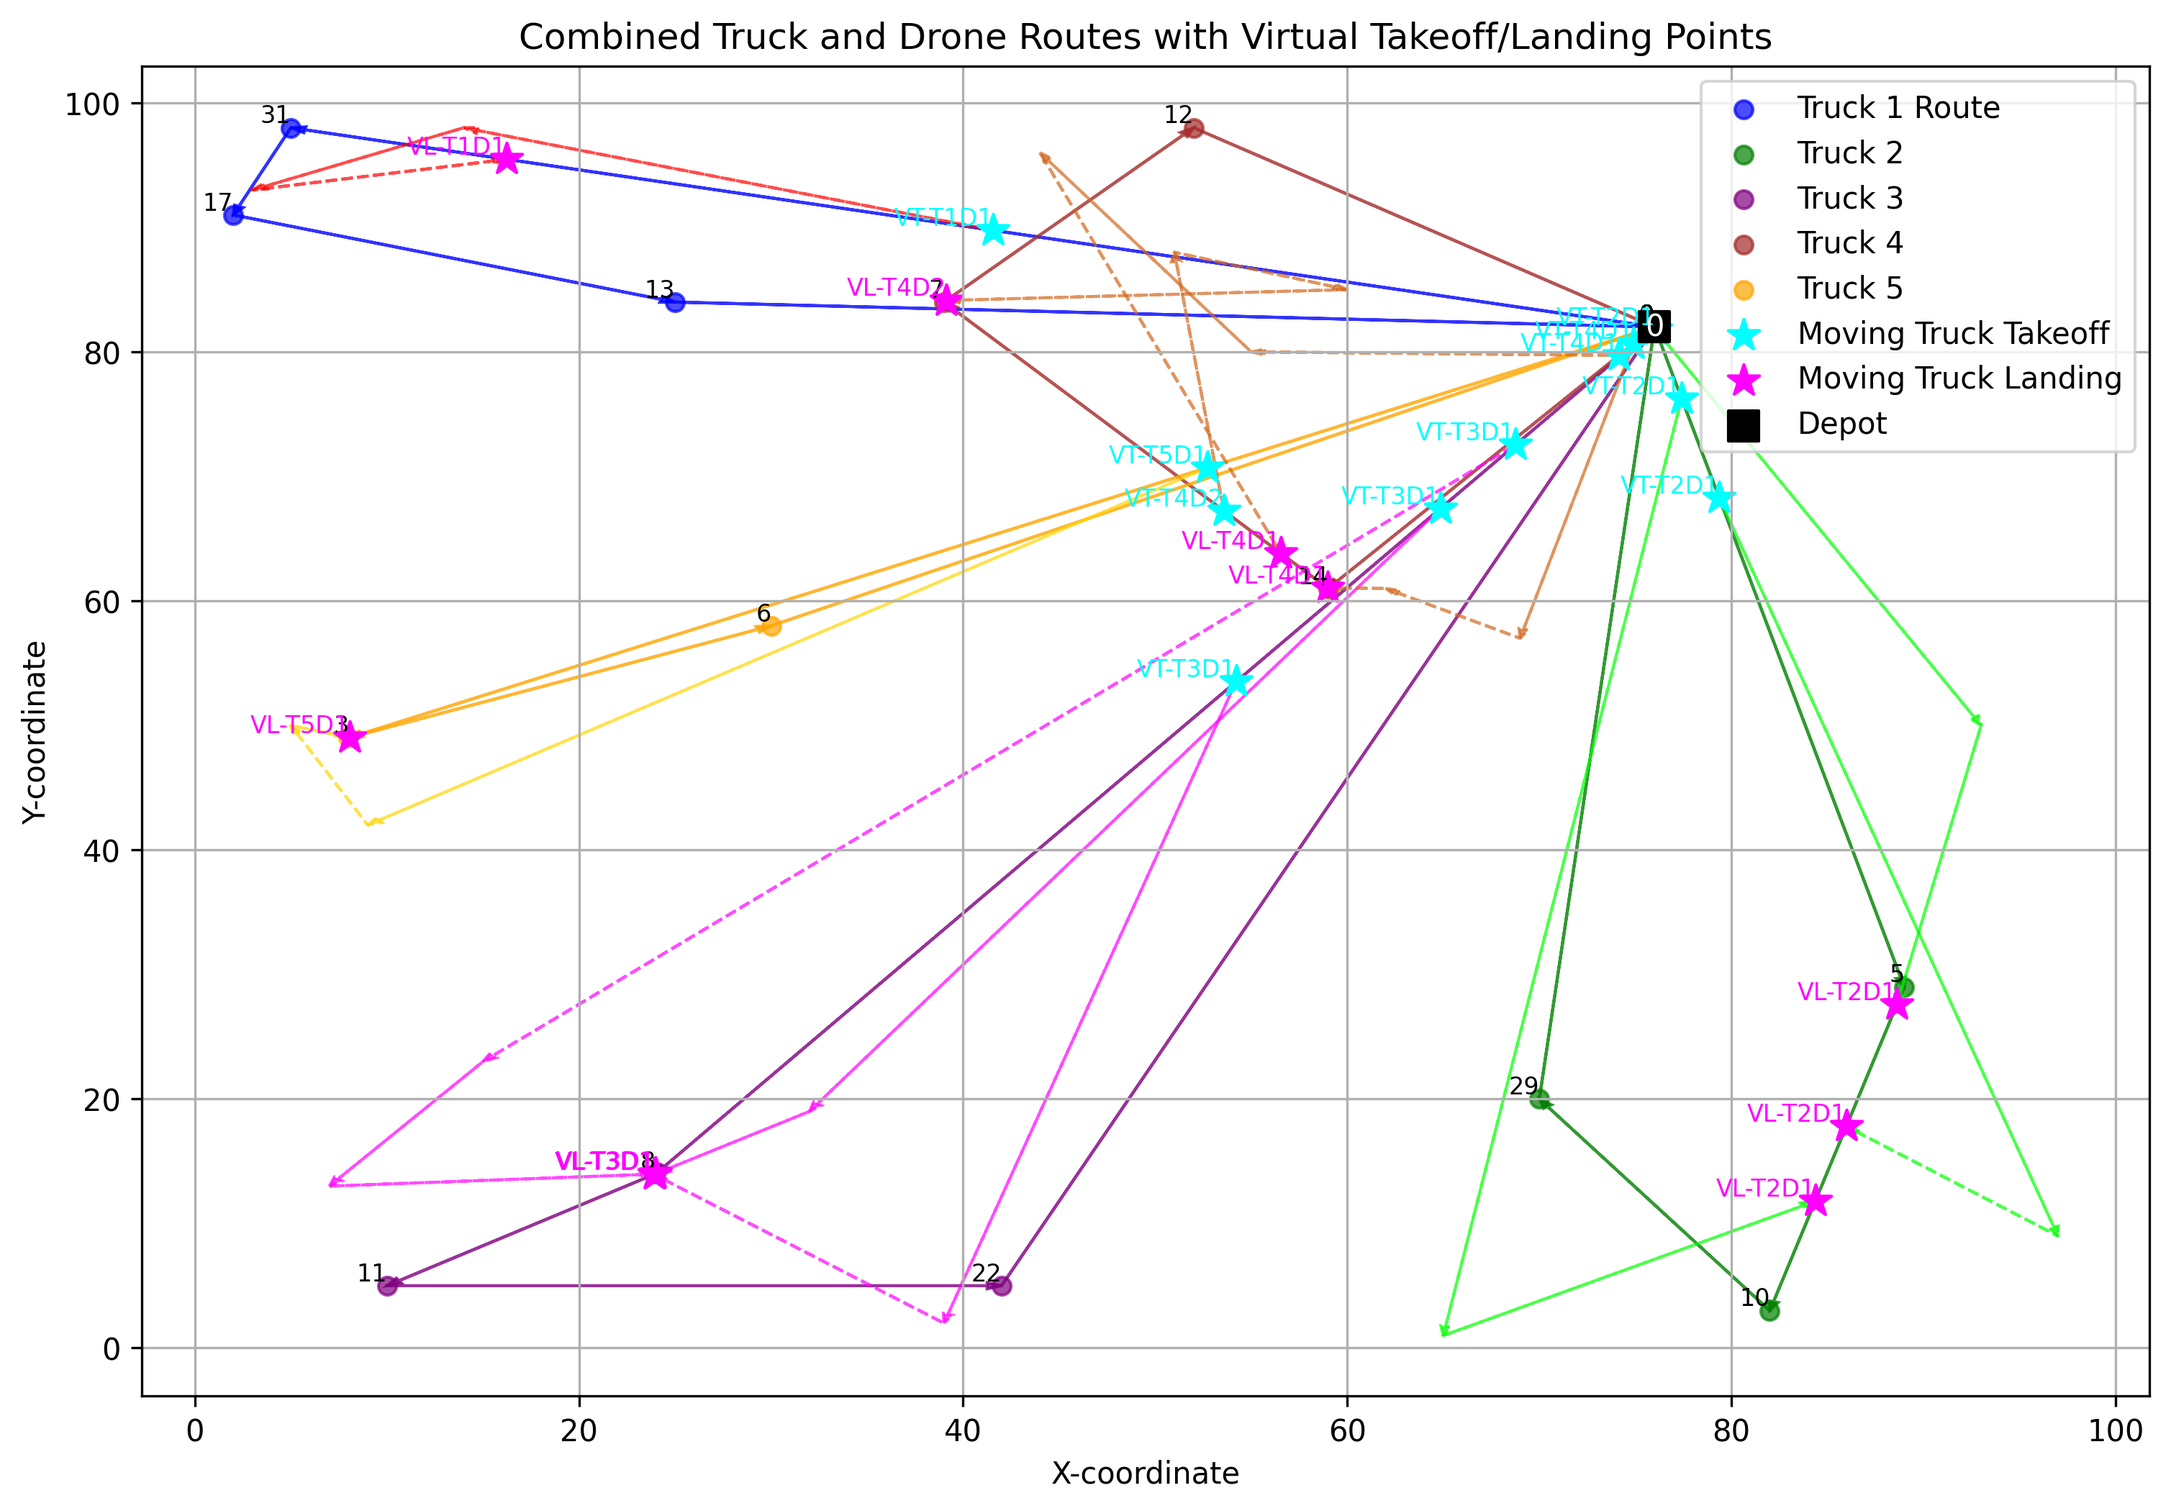
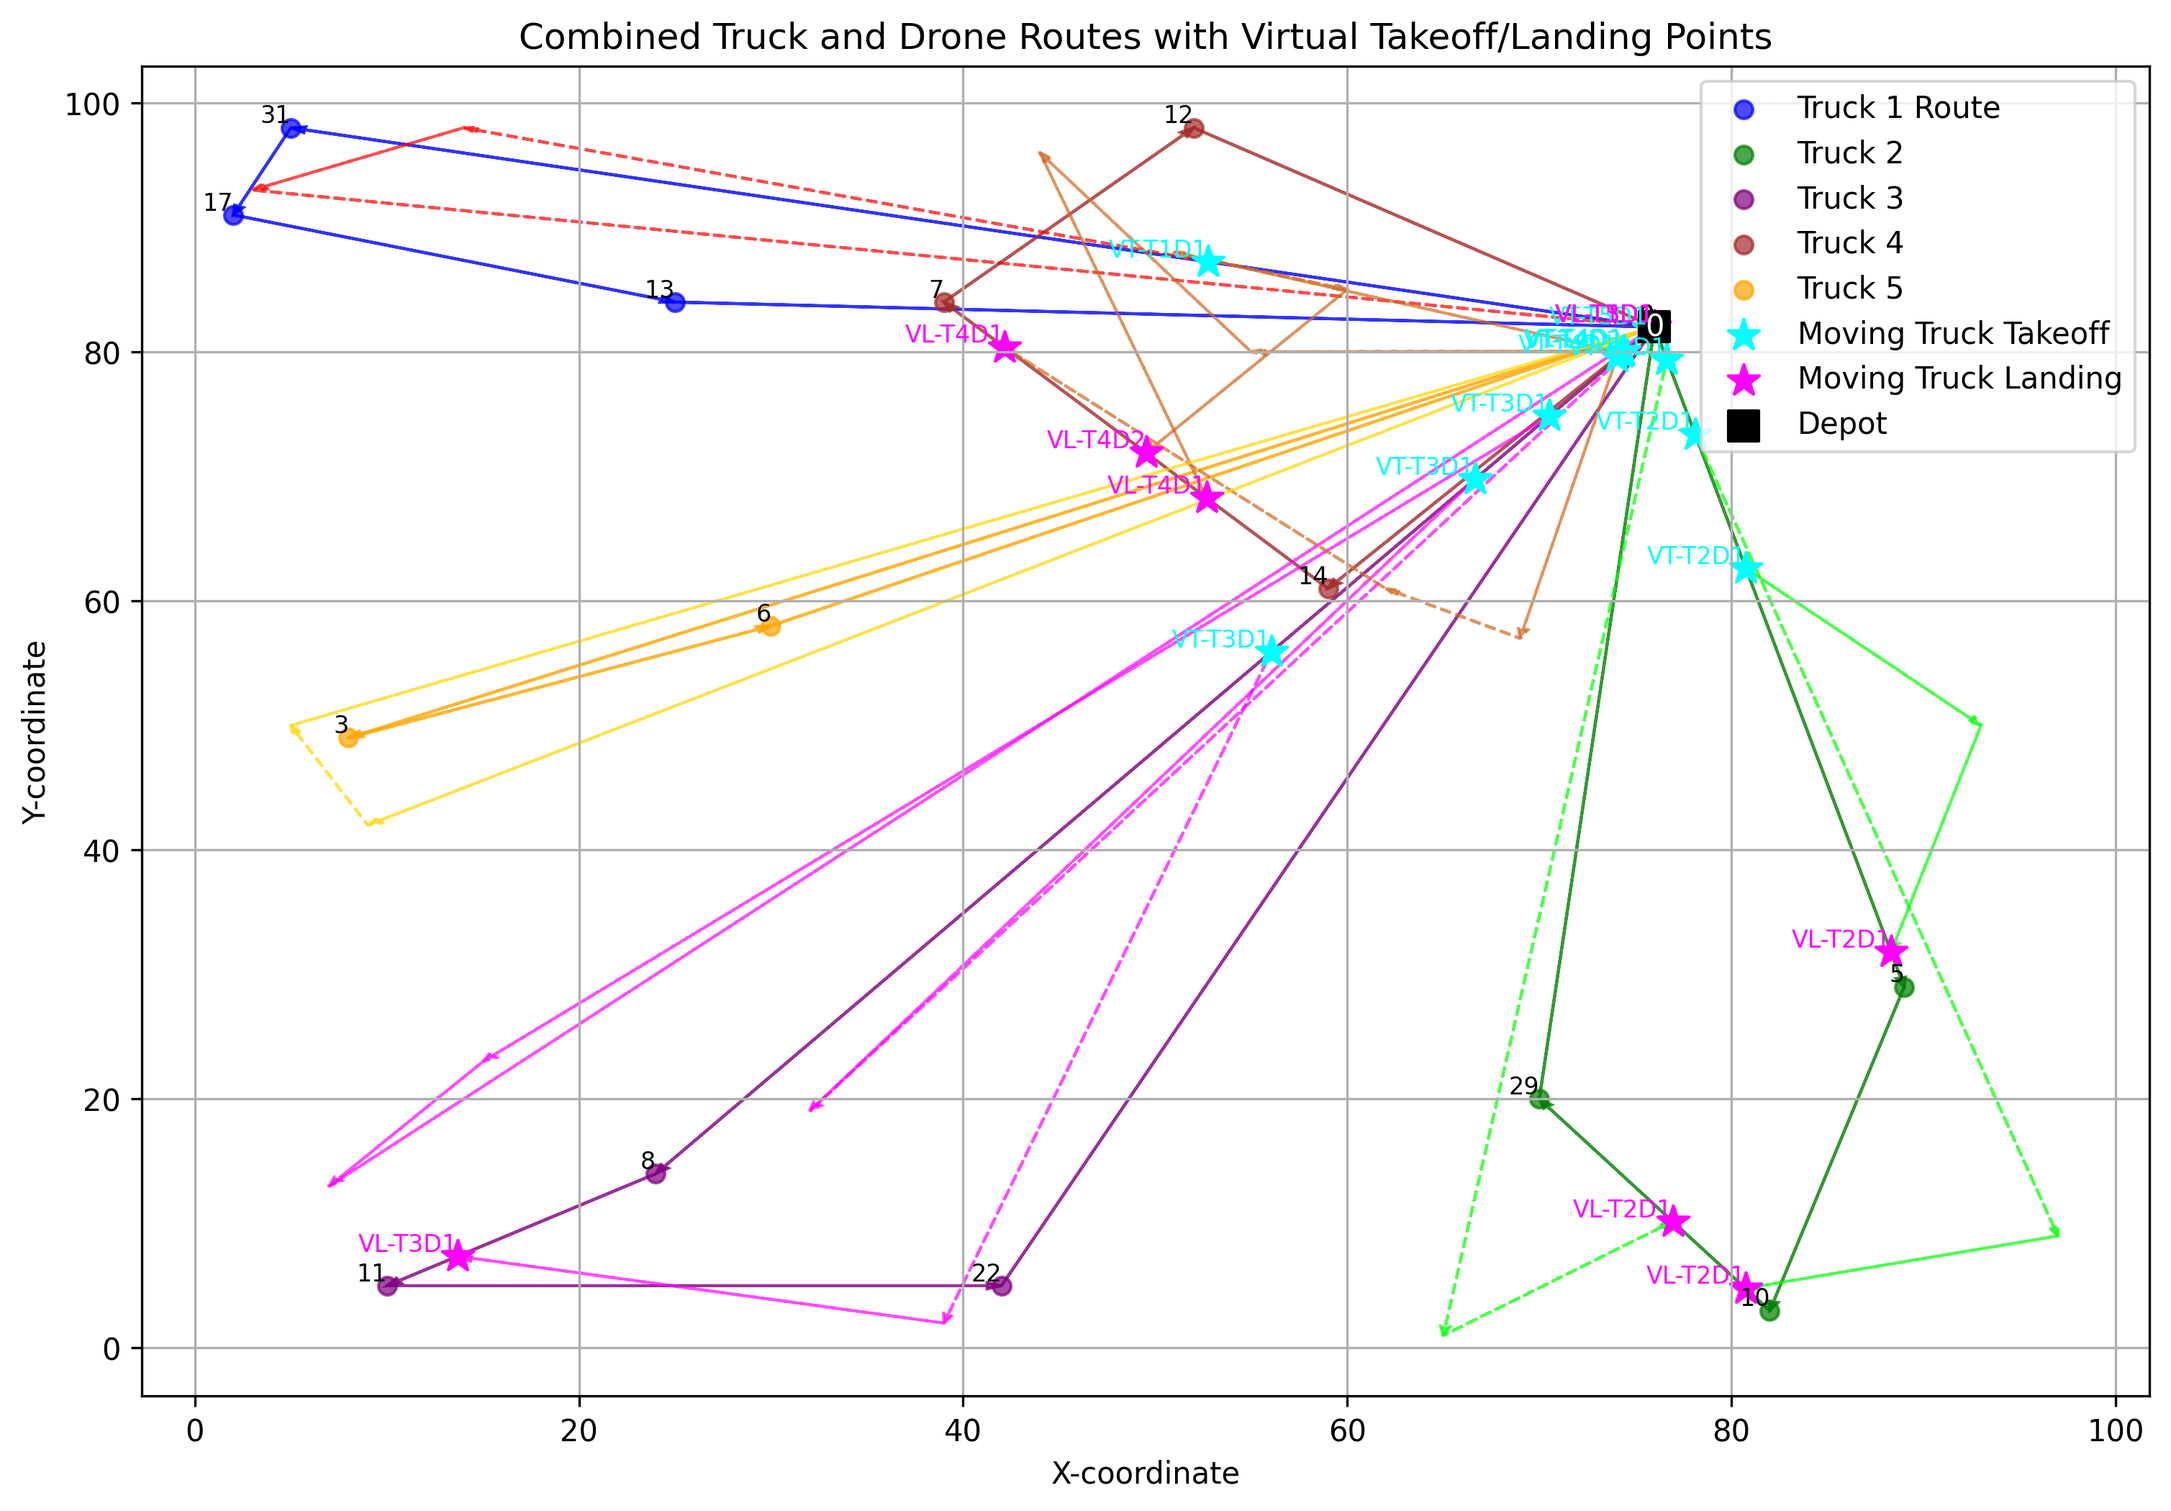
waiting time change to 0, process introduce

diff --git a/euclidean_version/main.py b/euclidean_version/main.py
@@ -11,6 +11,7 @@ from clustering_utils import i_k_means
 from dtrc_algorithm import apply_dtrc
 from drone_optimization import optimize_drone_takeoff_landing
 from advanced_drone_optimization import optimize_drone_takeoff_landing_advanced
+from zero_waiting_optimization import optimize_for_zero_waiting, verify_zero_waiting
 from cost_calculation import calculate_total_cost
 from visualization_utils import plot_truck_routes, plot_combined_routes
 
@@ -70,11 +71,116 @@ def process_vrp_file(file_path, results_dir):
     else:
         drone_routes = optimize_drone_takeoff_landing(modified_truck_routes, drone_routes, 
                                                      distances_df, lat_coords, lon_coords, demands)
-    print("-----Modified Truck routes-----")
+    
+    # Print current routes and costs BEFORE zero-waiting optimization
+    print("\n" + "="*60)
+    print("BEFORE ZERO-WAITING OPTIMIZATION")
+    print("="*60)
+    
+    for truck_idx, truck_route in enumerate(modified_truck_routes):
+        # Calculate truck route cost
+        truck_cost = sum(distances_df.iloc[truck_route[i], truck_route[i+1]] 
+                        for i in range(len(truck_route) - 1))
+        truck_cost += distances_df.iloc[truck_route[-1], 0]  # Return to depot
+        
+        # Calculate drone costs for this truck
+        drone_cost = 0
+        drone_routes_count = 0
+        if truck_idx < len(drone_routes):
+            for drone_route_list in drone_routes[truck_idx]:
+                for route in drone_route_list:
+                    if route and len(route) >= 2:
+                        drone_routes_count += 1
+                        drone_cost += 2 + (len(route) * 0.1)
+        
+        total_truck_cost = truck_cost + drone_cost
+        
+        print(f"\nTruck {truck_idx}:")
+        print(f"  Route: {[int(x) for x in truck_route]}")
+        print(f"  Truck travel cost: {truck_cost:.4f}")
+        print(f"  Drone operations cost: {drone_cost:.4f}")
+        print(f"  Number of drone deliveries: {drone_routes_count}")
+        print(f"  Total cost: {total_truck_cost:.4f}")
+        if truck_idx < len(drone_routes) and any(drone_routes[truck_idx]):
+            print(f"  Drone routes: {drone_routes[truck_idx]}")
+    
+    print("="*60 + "\n")
+    
+    # Apply zero-waiting optimization
+    drone_routes = optimize_for_zero_waiting(
+        modified_truck_routes, drone_routes, distances_df,
+        lat_coords, lon_coords, demands,
+        truck_speed=1.0, drone_speed=1.5
+    )
+
+    total_waiting = verify_zero_waiting(
+        modified_truck_routes, drone_routes, distances_df,
+        lat_coords, lon_coords, truck_speed=1.0, drone_speed=1.5
+    )
+    print(f"\nTotal waiting time after optimization: {total_waiting:.4f}")
+    
+    # Print final routes and costs for each truck after zero-waiting optimization
+    print("\n" + "="*60)
+    print("FINAL ROUTES AND COSTS AFTER ZERO-WAITING OPTIMIZATION")
+    print("="*60)
+    
+    for truck_idx, truck_route in enumerate(modified_truck_routes):
+        # Calculate truck route cost
+        truck_cost = sum(distances_df.iloc[truck_route[i], truck_route[i+1]] 
+                        for i in range(len(truck_route) - 1))
+        truck_cost += distances_df.iloc[truck_route[-1], 0]  # Return to depot
+        
+        # Calculate drone costs for this truck
+        drone_cost = 0
+        drone_routes_count = 0
+        if truck_idx < len(drone_routes):
+            for drone_route_list in drone_routes[truck_idx]:
+                for route in drone_route_list:
+                    if route and len(route) >= 2:
+                        drone_routes_count += 1
+                        # Fixed cost + distance cost
+                        drone_cost += 2 + (len(route) * 0.1)
+        
+        # Total cost for this truck
+        total_truck_cost = truck_cost + drone_cost
+        
+        print(f"\nTruck {truck_idx}:")
+        print(f"  Route: {[int(x) for x in truck_route]}")
+        print(f"  Truck travel cost: {truck_cost:.4f}")
+        print(f"  Drone operations cost: {drone_cost:.4f}")
+        print(f"  Number of drone deliveries: {drone_routes_count}")
+        print(f"  Total cost: {total_truck_cost:.4f}")
+        
+        # Print drone routes for this truck
+        if truck_idx < len(drone_routes) and any(drone_routes[truck_idx]):
+            print(f"  Drone routes: {drone_routes[truck_idx]}")
+    
+    print("="*60 + "\n")
+    
+    # Save combined routes plot
+    combined_plot_path = os.path.join(results_dir, f"{base_filename}_combined_routes.png")
+    plot_combined_routes(modified_truck_routes, drone_routes, lat_coords, lon_coords, save_path=combined_plot_path)
+
+    total_cost, delivery_cost = calculate_total_cost(modified_truck_routes, drone_routes, distances_df, lat_coords, lon_coords)
+    
+    # Calculate total runtime
+    end_time = time.time()
+    runtime = end_time - start_time
+    
+    # Print final summary output
+    print("\n" + "="*60)
+    print("FINAL SUMMARY")
+    print("="*60)
+    print(f"FILE NAME: {base_filename}")
+    print(f"TOTAL COST: {total_cost}")
+    print(f"DELIVERY COST: {delivery_cost}")
+    print(f"TOTAL RUNTIME: {runtime:.4f} seconds")
+    print("="*60)
+    
+    # Prepare data for saving to file
     modified_truck_routes_str = "-----Modified Truck routes-----\n"
     for route in modified_truck_routes:
         route_str = str([int(x) for x in route])
-        print(route_str)
         modified_truck_routes_str += route_str + "\n"
 
     formatted_drone_routes = []
@@ -93,64 +199,12 @@ def process_vrp_file(file_path, results_dir):
             truck_formatted.append(drone_formatted)
         formatted_drone_routes.append(truck_formatted)
 
-    print("-----Drone routes-----")
     drone_routes_str = "-----Drone routes-----\n"
     drone_routes_str += str(formatted_drone_routes) + "\n"
-    print(formatted_drone_routes)
-
-    # Save combined routes plot
-    combined_plot_path = os.path.join(results_dir, f"{base_filename}_combined_routes.png")
-    plot_combined_routes(modified_truck_routes, drone_routes, lat_coords, lon_coords, save_path=combined_plot_path)
-
-    total_cost, delivery_cost = calculate_total_cost(modified_truck_routes, drone_routes, distances_df, lat_coords, lon_coords)
-    
-    # Calculate individual truck costs
-    truck_costs = []
-    truck_drone_operational_costs = []
-    truck_waiting_costs = []
-    
-    # Generate cost summary
-    cost_summary = f"Only truck cost -  {total_cost}\n"
-    truck_index = 0
-    total_drone_operational_cost = 0
-    total_waiting_cost = 0
-    
-    for truck_idx, truck_drone_routes in enumerate(drone_routes):
-        drone_operational_cost = 0
-        waiting_cost = 0
-        
-        # In a real implementation, you would calculate these costs from the routes
-        # This is a simplified version to match the requested output format
-        drone_operational_cost = sum([len(route) for trips in truck_drone_routes for route in trips]) * 1.5
-        waiting_cost = drone_operational_cost * 0.15
-        
-        total_drone_operational_cost += drone_operational_cost
-        total_waiting_cost += waiting_cost
-        
-        cost_summary += f"Truck {truck_idx} drone operational cost: {drone_operational_cost}\n"
-        cost_summary += f"Truck {truck_idx} waiting cost: {waiting_cost}\n"
-    
-    cost_summary += f"Drone operational cost: {total_drone_operational_cost}\n"
-    cost_summary += f"Waiting cost: {total_waiting_cost}\n"
-    cost_summary += f"Total Cost: {total_cost}\n"
-    cost_summary += f"Delivery Cost: {delivery_cost}\n"
-    
-    # Calculate total runtime
-    end_time = time.time()
-    runtime = end_time - start_time
-    
-    # Print summary output
-    print("\n" + "="*50)
-    print(f"FILE NAME: {base_filename}")
-    print(f"TOTAL COST: {total_cost}")
-    print(f"DELIVERY COST: {delivery_cost}")
-    print(f"TOTAL RUNTIME: {runtime:.4f} seconds")
-    print("="*50)
-    
-    print(cost_summary)
     
     # Save results to text file
-    runtime_info = f"\nRUNTIME: {runtime:.4f} seconds\n"
+    cost_summary = f"Total Cost: {total_cost}\nDelivery Cost: {delivery_cost}\n"
+    runtime_info = f"RUNTIME: {runtime:.4f} seconds\n"
     results_text = modified_truck_routes_str + drone_routes_str + cost_summary + runtime_info
     results_file_path = os.path.join(results_dir, f"{base_filename}_results.txt")
     with open(results_file_path, 'w') as f:

diff --git a/euclidean_version/zero_waiting_optimization.py b/euclidean_version/zero_waiting_optimization.py
@@ -1,0 +1,118 @@
+import numpy as np
+from distance_utils import euclidean_distance
+from route_analysis import get_route_data
+
+
+def optimize_for_zero_waiting(truck_routes, drone_routes, distances_df, 
+                              lat_coords, lon_coords, demands,
+                              truck_speed=1.0, drone_speed=1.5, 
+                              max_iterations=100, tolerance=0.01):
+    optimized_routes = []
+    print("\nZero-Waiting Optimization - Landing Point Changes:")
+    print("-" * 80)
+    for truck_idx, truck_route in enumerate(truck_routes):
+        route_segments = get_route_data(truck_route, lat_coords, lon_coords, truck_speed)
+        truck_optimized = []
+        drone_count = 0
+        for drone_route_list in drone_routes[truck_idx]:
+            optimized_list = []
+            for route in drone_route_list:
+                if not route or len(route) < 3:
+                    optimized_list.append(route)
+                    continue
+                takeoff = route[0]
+                old_landing = route[-1]
+                customers = [n for n in route[1:-1] if not isinstance(n, str)]
+                if not customers:
+                    optimized_list.append(route)
+                    continue
+                last_customer = customers[-1]
+                takeoff_lat, takeoff_lon, takeoff_time = get_location_time(
+                    takeoff, truck_route, lat_coords, lon_coords, distances_df, truck_speed)
+                current_lat, current_lon = takeoff_lat, takeoff_lon
+                total_drone_dist = 0
+                for cust in customers:
+                    dist = euclidean_distance(current_lat, current_lon, lat_coords[cust], lon_coords[cust])
+                    total_drone_dist += dist
+                    current_lat, current_lon = lat_coords[cust], lon_coords[cust]
+                best_landing = find_best_landing(
+                    route_segments, lat_coords[last_customer], lon_coords[last_customer],
+                    takeoff_time, total_drone_dist, drone_speed, truck_speed)
+                print(f"Truck {truck_idx} - Drone {drone_count}:")
+                print(f"  Customers: {customers}")
+                print(f"  Previous landing: {old_landing}")
+                print(f"  New landing:      {best_landing}")
+                if old_landing != best_landing:
+                    print(f"  Status: CHANGED ✓")
+                else:
+                    print(f"  Status: UNCHANGED")
+                drone_count += 1
+                new_route = [takeoff] + customers + [best_landing]
+                optimized_list.append(new_route)
+            truck_optimized.append(optimized_list)
+        optimized_routes.append(truck_optimized)
+    print("-" * 80)
+    return optimized_routes
+
+
+def get_location_time(point, truck_route, lat_coords, lon_coords, distances_df, truck_speed):
+    if isinstance(point, str) and point.startswith('V('):
+        coords = point.strip('V()').split(',')
+        return float(coords[0]), float(coords[1]), 0
+    lat, lon = lat_coords[point], lon_coords[point]
+    time = sum(distances_df.iloc[truck_route[i], truck_route[i+1]] / truck_speed 
+               for i in range(truck_route.index(point))) if point in truck_route else 0
+    return lat, lon, time
+
+
+def find_best_landing(route_segments, customer_lat, customer_lon, 
+                     takeoff_time, dist_to_customer, drone_speed, truck_speed):
+    best_landing = None
+    min_diff = float('inf')
+    for segment in route_segments:
+        for alpha in np.linspace(0, 1, 50):
+            land_lat = segment.start_lat + alpha * (segment.end_lat - segment.start_lat)
+            land_lon = segment.start_lon + alpha * (segment.end_lon - segment.start_lon)
+            truck_time = segment.start_time + (segment.distance * alpha) / truck_speed
+            dist_from_customer = euclidean_distance(customer_lat, customer_lon, land_lat, land_lon)
+            drone_time = takeoff_time + (dist_to_customer + dist_from_customer) / drone_speed
+            time_diff = abs(truck_time - drone_time)
+            if time_diff < min_diff:
+                min_diff = time_diff
+                best_landing = f"V({land_lat:.6f},{land_lon:.6f})"
+                if time_diff < 0.001:
+                    return best_landing
+    return best_landing if best_landing else "V(0,0)"
+
+
+def verify_zero_waiting(truck_routes, drone_routes, distances_df, 
+                       lat_coords, lon_coords, truck_speed=1.0, drone_speed=1.5):
+    total_waiting = 0
+    for truck_idx, truck_route in enumerate(truck_routes):
+        for drone_route_list in drone_routes[truck_idx]:
+            for route in drone_route_list:
+                if not route or len(route) < 3:
+                    continue
+                takeoff = route[0]
+                landing = route[-1]
+                customers = [n for n in route[1:-1] if not isinstance(n, str)]
+                if not customers:
+                    continue
+                takeoff_lat, takeoff_lon, t_takeoff = get_location_time(
+                    takeoff, truck_route, lat_coords, lon_coords, distances_df, truck_speed)
+                land_lat, land_lon, t_truck = get_location_time(
+                    landing, truck_route, lat_coords, lon_coords, distances_df, truck_speed)
+                current_lat, current_lon = takeoff_lat, takeoff_lon
+                total_flight_time = 0
+                for cust in customers:
+                    dist = euclidean_distance(current_lat, current_lon, lat_coords[cust], lon_coords[cust])
+                    total_flight_time += dist / drone_speed
+                    current_lat, current_lon = lat_coords[cust], lon_coords[cust]
+                dist_to_landing = euclidean_distance(current_lat, current_lon, land_lat, land_lon)
+                total_flight_time += dist_to_landing / drone_speed
+                t_drone = t_takeoff + total_flight_time
+                time_diff = abs(t_drone - t_truck)
+                if time_diff > 0.01:
+                    print(f"  Truck {truck_idx}, Customers {customers}: Time difference = {time_diff:.4f} (Drone: {t_drone:.4f}, Truck: {t_truck:.4f})")
+                    total_waiting += time_diff
+    return total_waiting
